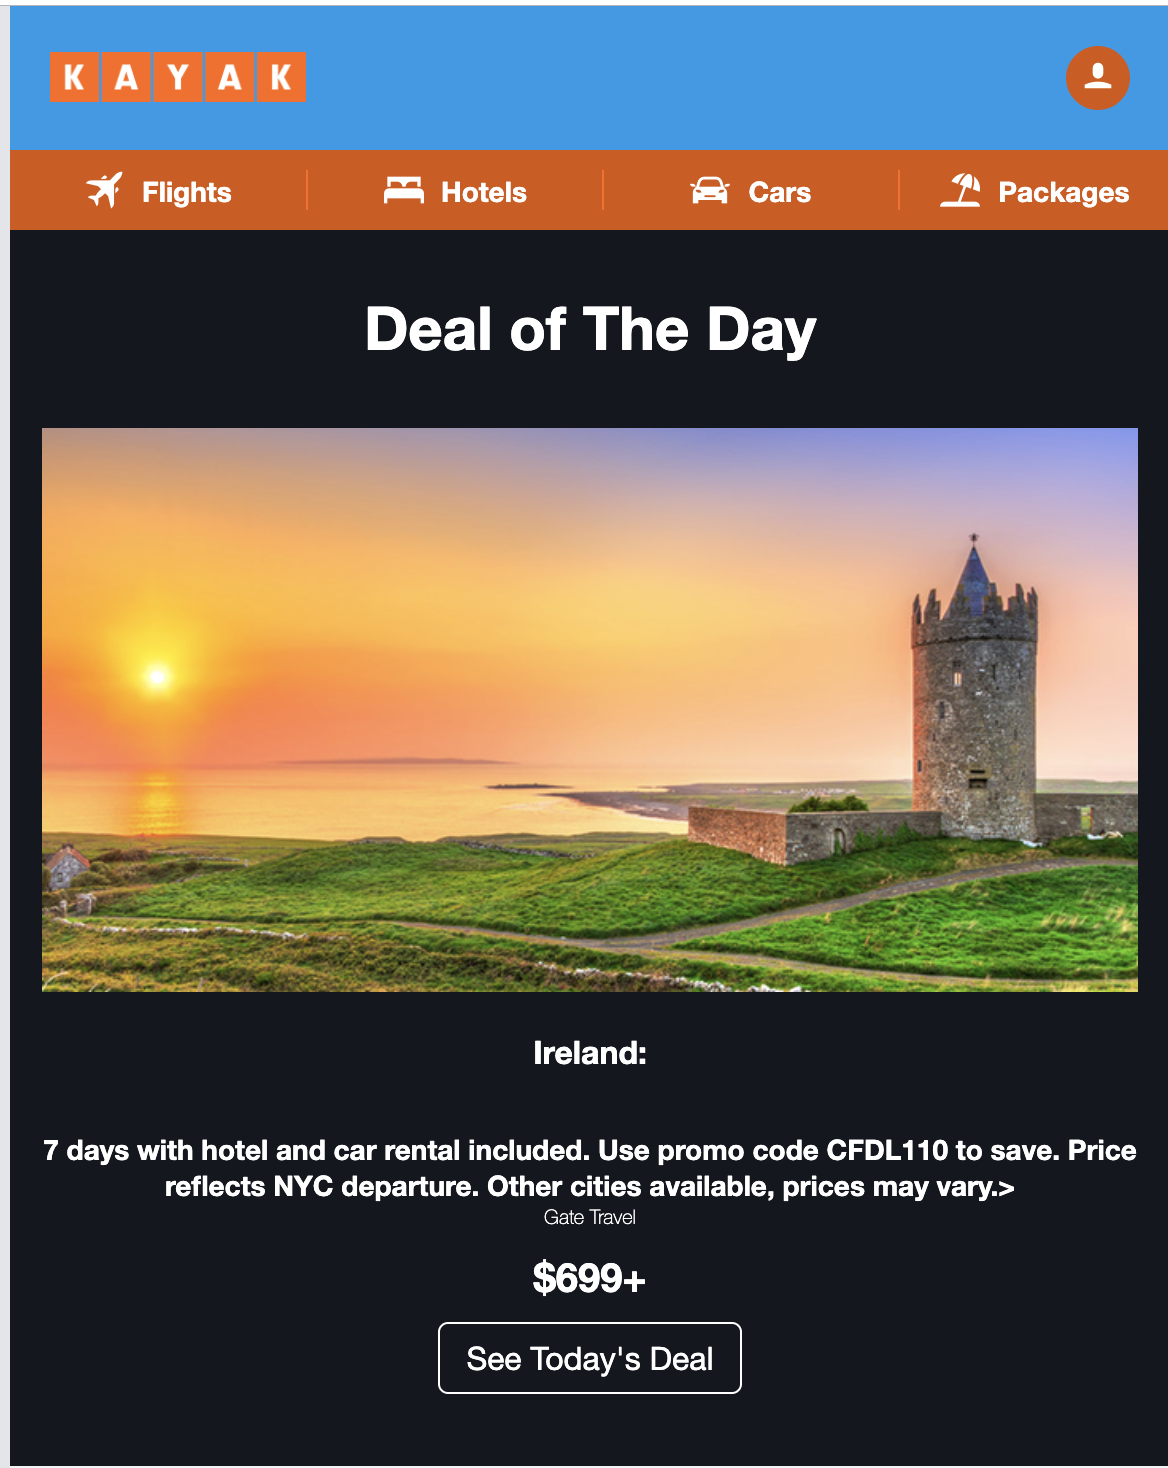
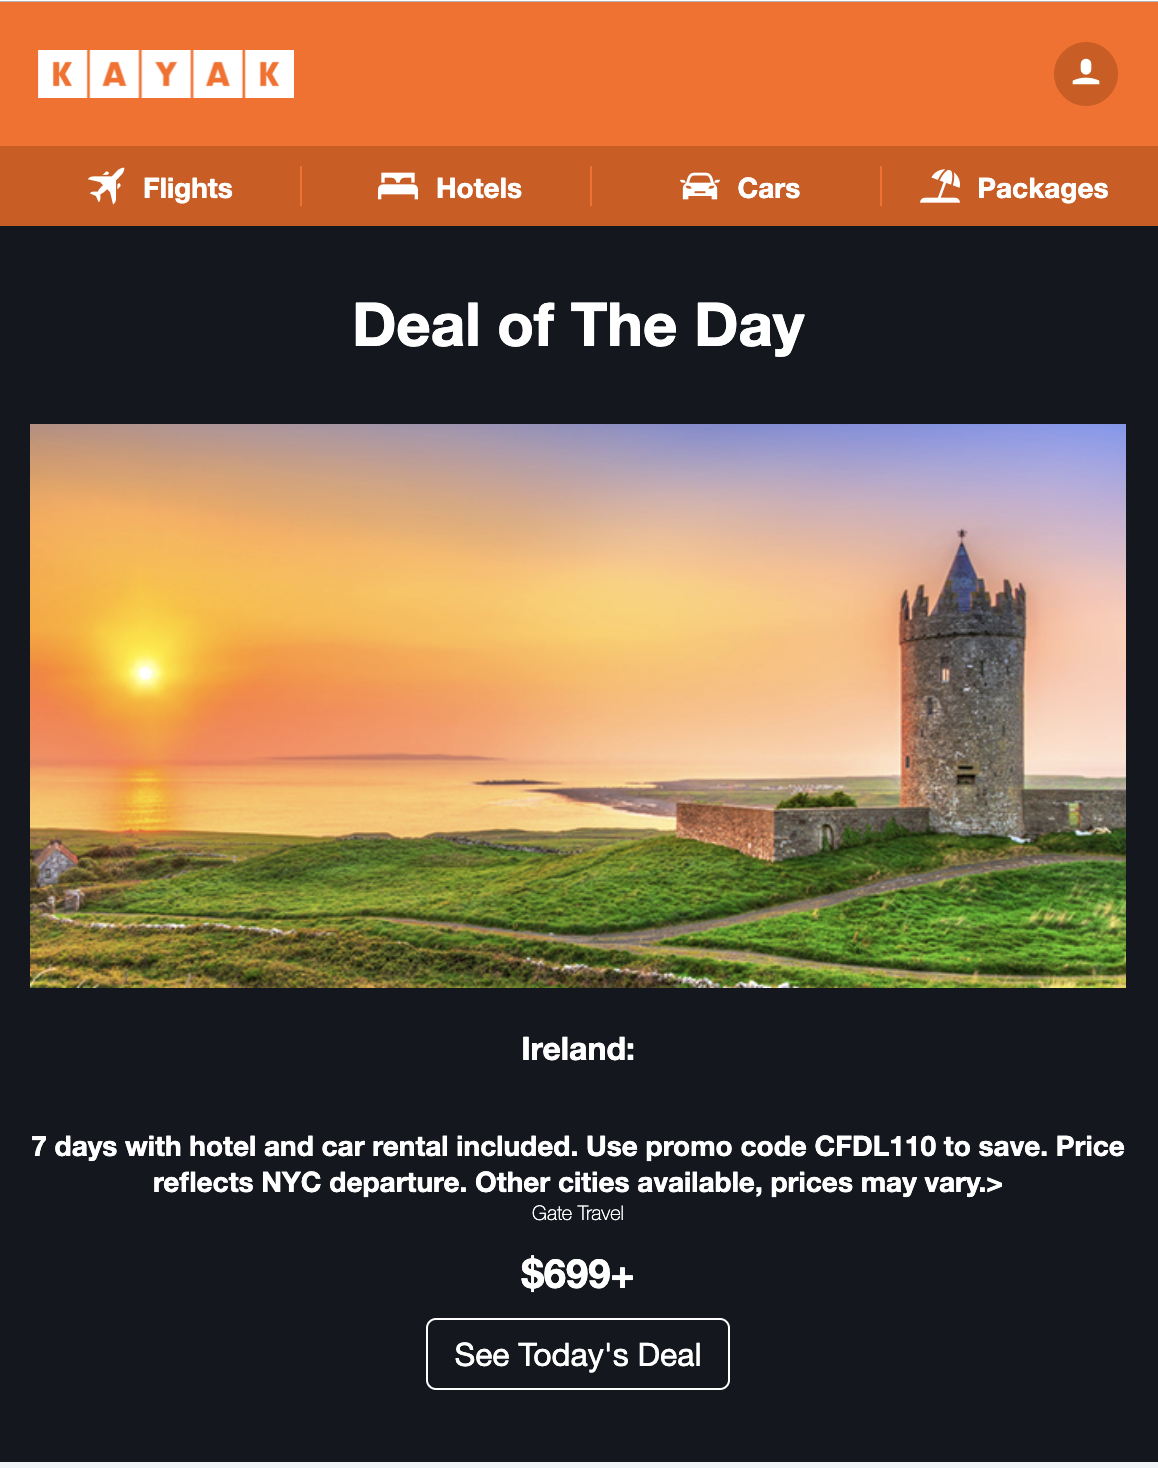
fixing header color

diff --git a/src/assets/scss/template/_template.scss b/src/assets/scss/template/_template.scss
@@ -5,8 +5,8 @@ body,
   background-color: #e4e5ea;
 }
 .header {
-  background: $primary-color;
-  background-color: $primary-color;
+  background: $background-color;
+  background-color: $background-color;
 
   .columns {
     padding-bottom: 20px;
@@ -22,7 +22,7 @@ body,
   }
 }
 .sub-header {
-  background: #d65600;
+  background: $background-color;
   background-color: #d65600;
 
   .columns {

diff --git a/src/assets/scss/_settings.scss b/src/assets/scss/_settings.scss
@@ -30,6 +30,7 @@ $pre-color: #ff6908;
 $global-width: 580px;
 $global-width-small: 95%;
 $global-gutter: 16px;
+$background-color: #ff690f;
 $body-background: #e4e5ea;
 $container-background: $white;
 $global-padding: 16px;

diff --git a/README.md b/README.md
@@ -1,59 +1,10 @@
-# Recreating a Kayak HTML email with the Foundation framework. Image pack and dummy data provided by Coding Phase.
+# Recreating a Kayak HTML email with the Foundation framework. Image pack provided by Coding Phase.
 ![Header](src/assets/img/KayakHeader.png)
 ![Body](src/assets/img/Offers.png)
 ![Footer](src/assets/img/KayakFooter.png)
 
+I was using a different set of colors before to avoid infringing...but then I realize it looks better with their color scheme.
 
-
-# Foundation for Emails Template
-
-[![devDependency Status](https://david-dm.org/zurb/foundation-emails-template/dev-status.svg)](https://david-dm.org/zurb/foundation-emails-template#info=devDependencies)
-
-**Please open all issues with this template on the main [Foundation for Emails](http://github.com/zurb/foundation-emails/issues) repo.**
-
-This is the official starter project for [Foundation for Emails](http://foundation.zurb.com/emails), a framework for creating responsive HTML devices that work in any email client. It has a Gulp-powered build system with these features:
-
-- Handlebars HTML templates with [Panini](http://github.com/zurb/panini)
-- Simplified HTML email syntax with [Inky](http://github.com/zurb/inky)
-- Sass compilation
-- Image compression
-- Built-in BrowserSync server
-- Full email inlining process
-
-## Installation
-
-To use this template, your computer needs [Node.js](https://nodejs.org/en/) 0.12 or greater. The template can be installed with the Foundation CLI, or downloaded and set up manually.
-
-### Using the CLI
-
-Install the Foundation CLI with this command:
-
-```bash
-npm install foundation-cli --global
-```
-
-Use this command to set up a blank Foundation for Emails project:
-
-```bash
-foundation new --framework emails
-```
-
-The CLI will prompt you to give your project a name. The template will be downloaded into a folder with this name.
-
-### Manual Setup
-
-To manually set up the template, first download it with Git:
-
-```bash
-git clone https://github.com/zurb/foundation-emails-template projectname
-```
-
-Then open the folder in your command line, and install the needed dependencies:
-
-```bash
-cd projectname
-npm install
-```
 
 ## Build Commands
 
@@ -77,60 +28,3 @@ are inside the archive folder.
 ## Litmus Tests (config.json)
 
 Testing in Litmus requires the images to be hosted publicly. The provided gulp task handles this by automating hosting to an AWS S3 account. Provide your Litmus and AWS S3 account details in the `example.config.json` and then rename to `config.json`. Litmus config, and `aws.url` are required, however if you follow the [aws-sdk suggestions](http://docs.aws.amazon.com/AWSJavaScriptSDK/guide/node-configuring.html) you don't need to supply the AWS credentials into this JSON.
-
-```json
-{
-  "aws": {
-    "region": "us-east-1",
-    "accessKeyId": "YOUR_ACCOUNT_KEY",
-    "secretAccessKey": "YOUR_ACCOUNT_SECRET",
-    "params": {
-        "Bucket": "elasticbeanstalk-us-east-1-THIS_IS_JUST_AN_EXAMPLE"
-    },
-    "url": "https://s3.amazonaws.com/elasticbeanstalk-us-east-1-THIS_IS_JUST_AN_EXAMPLE"
-  },
-  "litmus": {
-    "username": "YOUR_LITMUS@EMAIL.com",
-    "password": "YOUR_ACCOUNT_PASSWORD",
-    "url": "https://YOUR_ACCOUNT.litmus.com",
-    "applications": ["ol2003","ol2007","ol2010","ol2011","ol2013","chromegmailnew","chromeyahoo","appmail9","iphone5s","ipad","android4","androidgmailapp"]
-  }
-}
-```
-
-## Manual email tests (config.json)
-
-Similar to the Litmus tests, you can have the emails sent to a specified email address. Just like with the Litmus tests, you will need to provide AWS S3 account details in `config.json`. You will also need to specify to details of an SMTP server. The email address to send to emails to can either by configured in the `package.json` file or added as a parameter like so: `npm run mail -- --to="example.com"`
-
-```json
-{
-  "aws": {
-    "region": "us-east-1",
-    "accessKeyId": "YOUR_ACCOUNT_KEY",
-    "secretAccessKey": "YOUR_ACCOUNT_SECRET",
-    "params": {
-        "Bucket": "elasticbeanstalk-us-east-1-THIS_IS_JUST_AN_EXAMPLE"
-    },
-    "url": "https://s3.amazonaws.com/elasticbeanstalk-us-east-1-THIS_IS_JUST_AN_EXAMPLE"
-  },
-  "mail": {
-    "to": [
-      "example@domain.com"
-    ],
-    "from": "Company name <info@company.com",
-    "smtp": {
-      "auth": {
-        "user": "example@domain.com",
-        "pass": "12345678"
-      },
-      "host": "smtp.domain.com",
-      "secureConnection": true,
-      "port": 465
-    }
-  }
-}
-```
-
-For a full list of Litmus' supported test clients(applications) see their [client list](https://litmus.com/emails/clients.xml).
-
-**Caution:** AWS Service Fees will result, however, are usually very low do to minimal traffic. Use at your own discretion.
